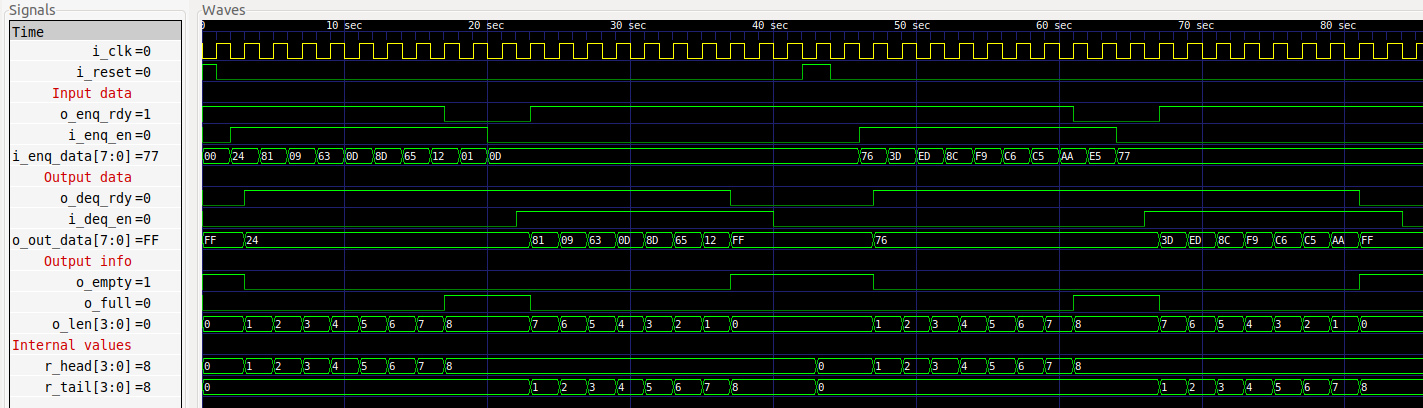
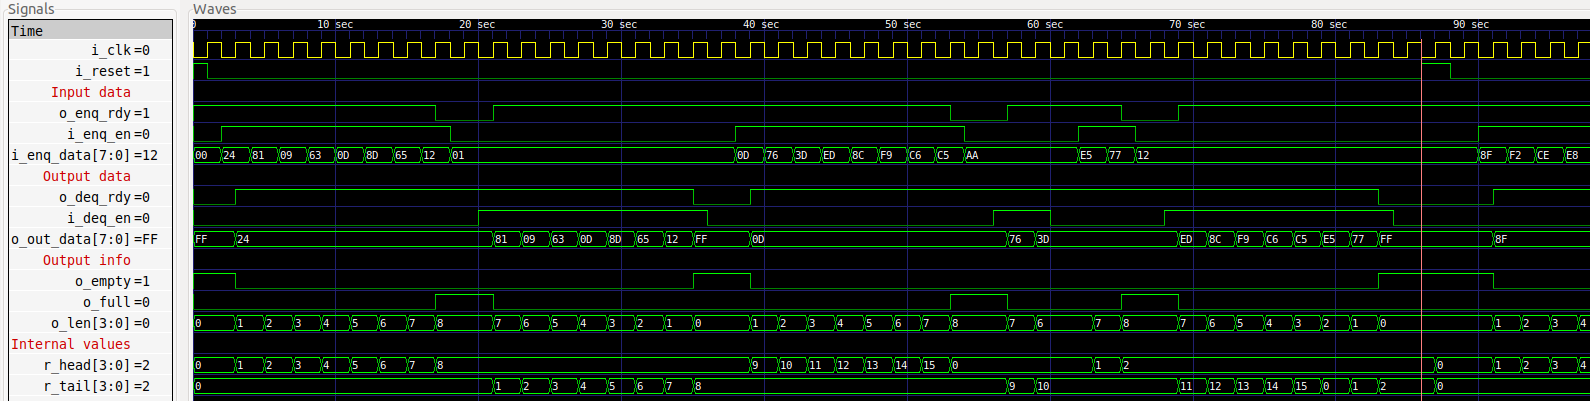
Imporved code quality, changed testbench and waveform

Changed region(s): [[0.0, 0.0, 1.0, 1.0]]

diff --git a/fifo/fifo.md b/fifo/fifo.md
@@ -16,6 +16,7 @@
 | ```o_reset```     | Synchronous reset|
 | ```o_full```      | Is FIFO full? | 
 | ```o_empty```     | Is FIFO empty? |
+| ```o_len```       | Number of elements in the FIFO |
 | ```i_enq_data```  | Data to push to FIFO |
 | ```i_enq_en```    | Push to FIFO |
 | ```o_enq_rdy```   | Can i push to FIFO? (same as !o_full) |
